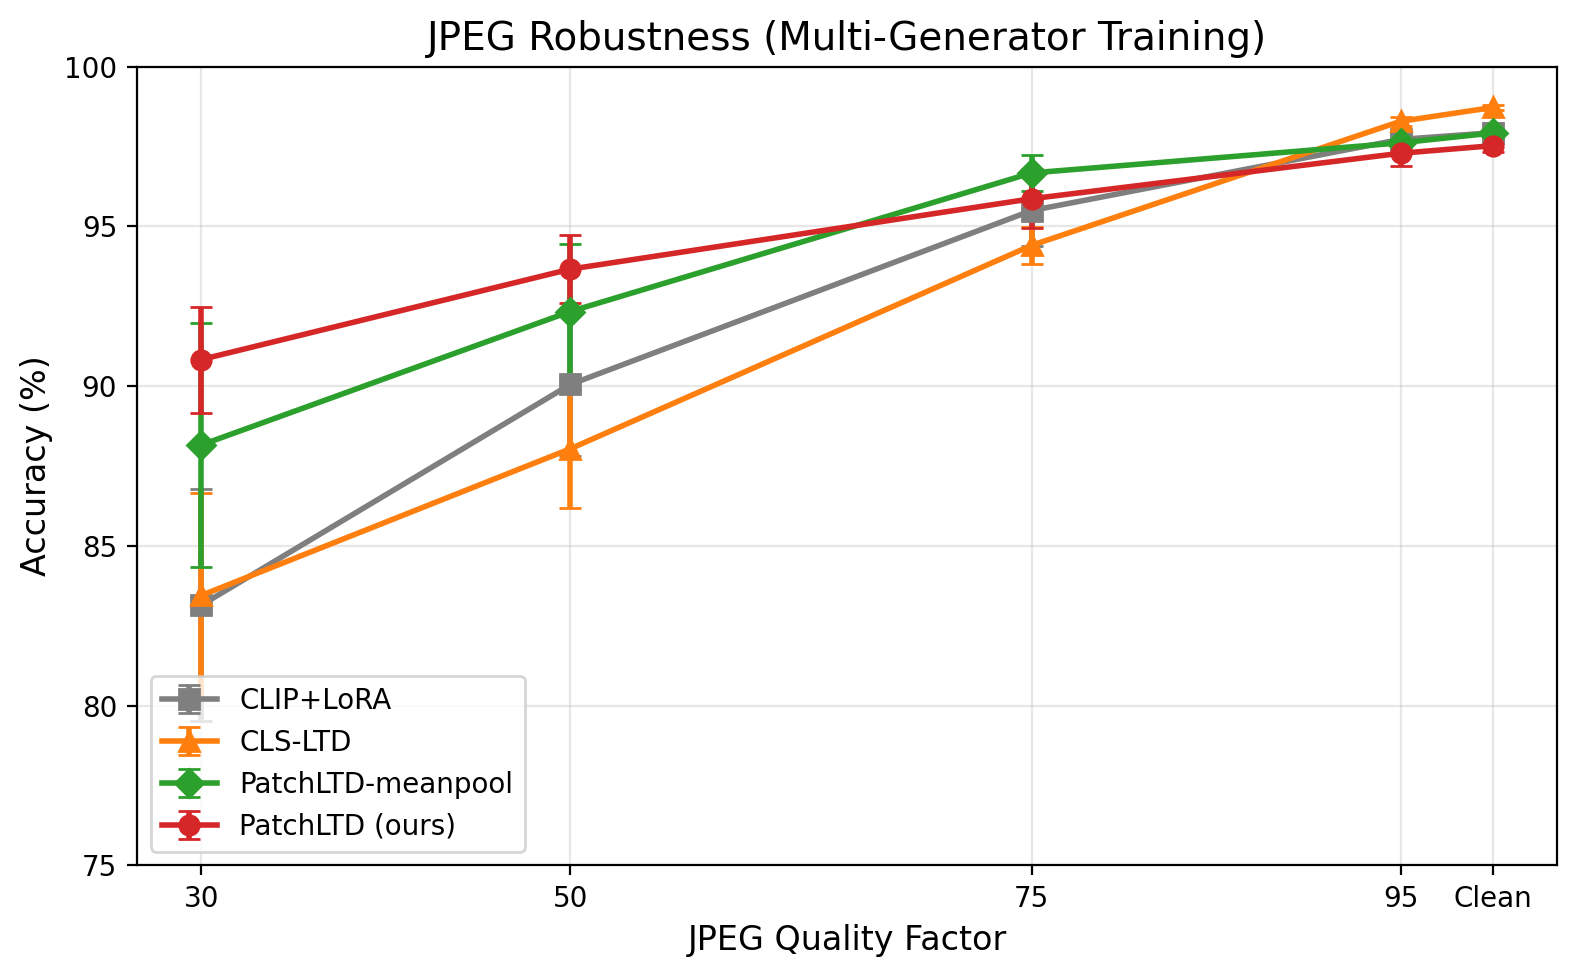
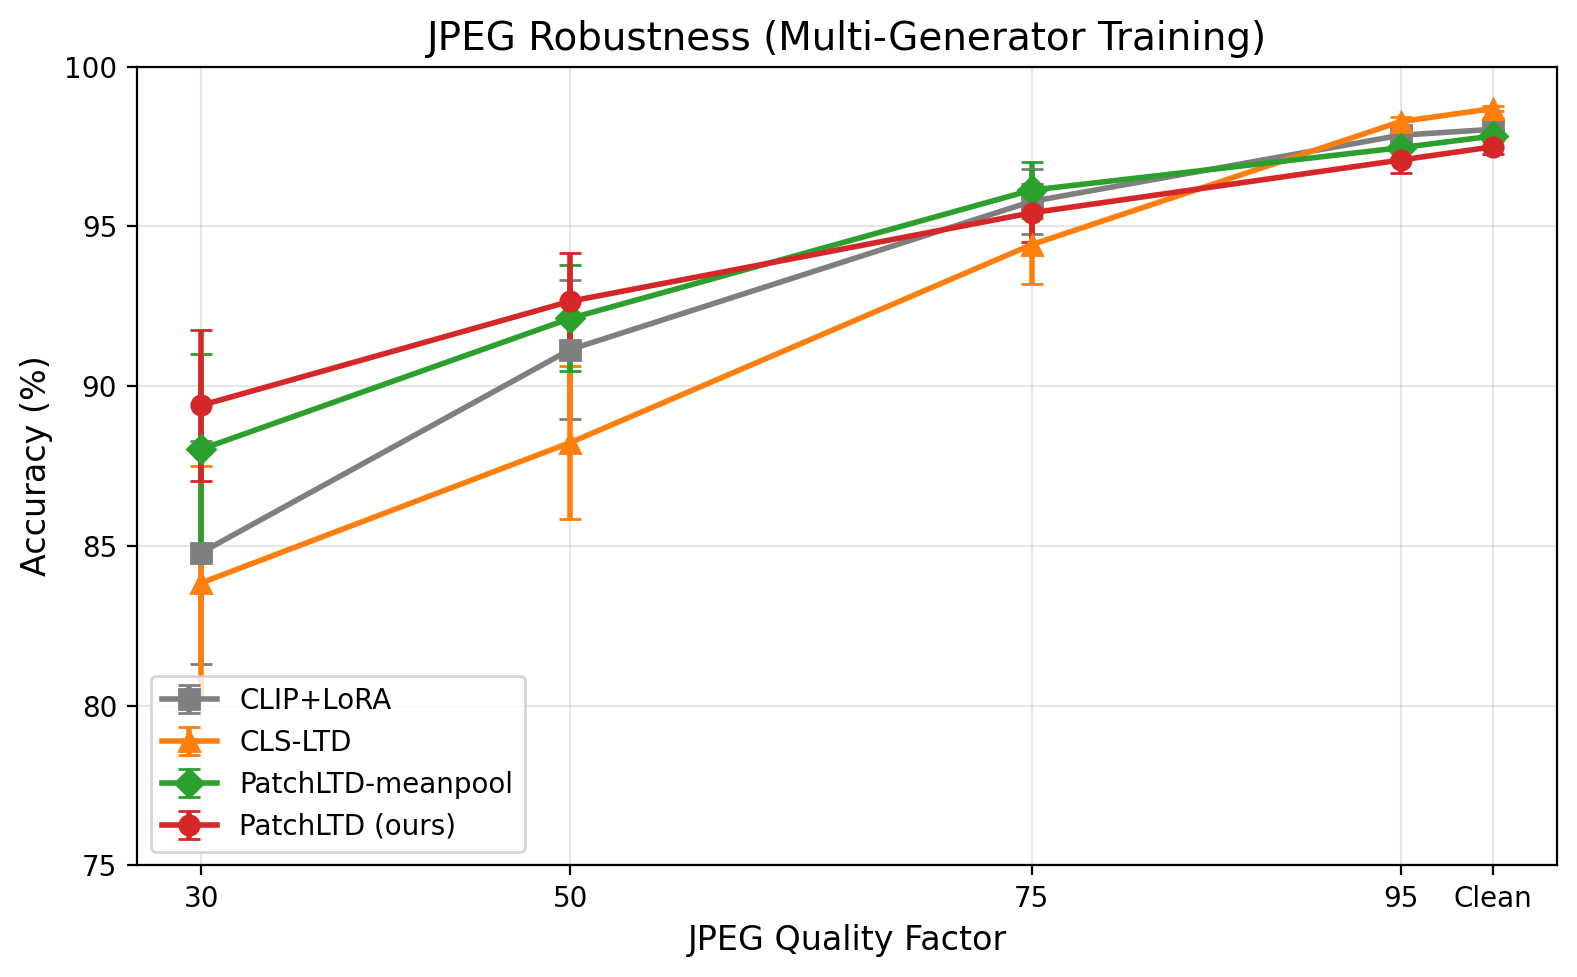
Camera-ready fixes: all reviewer R2 issues resolved
1. Fix residual old numbers: Abstract "three"→"five", Section 5.6
   "+7.7%"→"+4.6%", "std=1.7 vs 3.6"→"std=2.6 vs 3.9"
2. Unify Table 7 (DCPT) with n=5 stats for non-DCPT rows
3. Add paired t-test: Q=30 p=0.088 (trend), Wukong Q=30 p=0.009 (sig)
4. Explain default layers {2,5,8,11} chosen before ablation to avoid
   selection bias; ablation-best {5,7,9,11} noted as future work
5. Regenerate Figure 3 with 5-seed data
6. Fix Figure 3 caption: "n=5"

Changed region(s): [[0.0932, 0.0921, 0.9632, 0.6448], [0.4039, 0.3992, 0.435, 0.4299]]

diff --git a/paper/main.tex b/paper/main.tex
@@ -31,7 +31,7 @@ Recent CLIP-based AI-generated image detectors leverage layer transition discrep
 However, existing methods analyze only the global CLS token, discarding spatially-resolved information encoded in patch tokens.
 We propose \ours{}, which extends layer transition analysis to the patch level: for each spatial position in the ViT grid, we compute per-patch feature transitions across selected intermediate layers and aggregate them via a lightweight Transformer encoder.
 This yields a spatially-aware forensic feature that complements the semantic CLS embedding.
-Experiments on GenImage with three random seeds show that \ours{} provides consistent improvement under JPEG compression in the multi-generator training setting ($+4.6\%$ accuracy at $Q{=}30$ over CLIP+LoRA, $89.4{\pm}2.6\%$ \vs{} $84.8{\pm}3.9\%$), with notably lower variance across seeds.
+Experiments on GenImage with five random seeds show that \ours{} provides consistent improvement under JPEG compression in the multi-generator training setting ($+4.6\%$ accuracy at $Q{=}30$ over CLIP+LoRA, $89.4{\pm}2.6\%$ \vs{} $84.8{\pm}3.9\%$), with notably lower variance across seeds.
 Ablation confirms that patch-level transitions outperform CLS-only transitions by $+5.6\%$ at $Q{=}30$, validating the value of spatially-resolved layer analysis.
 
 \keywords{AI-generated image detection \and CLIP \and layer transition \and JPEG robustness \and LoRA}
@@ -269,7 +269,9 @@ CLS-LTD        & \textbf{98.7}\scriptsize$\pm$0.1 & \textbf{93.7}\scriptsize$\pm
 \end{table}
 
 \Cref{tab:jpeg} presents the key result: JPEG compression robustness.
-\ours{} achieves $89.4{\pm}2.6\%$ at $Q{=}30$, outperforming CLIP+LoRA by $+4.6\%$ ($84.8{\pm}3.9\%$) and CLS-LTD by $+5.6\%$ ($83.8{\pm}4.1\%$), with lower variance.
+\ours{} achieves $89.4{\pm}2.6\%$ at $Q{=}30$, outperforming CLIP+LoRA by $+4.6\%$ ($84.8{\pm}3.9\%$) with lower variance.
+A paired $t$-test yields $p{=}0.088$ ($n{=}5$), indicating a consistent trend though not reaching $p{<}0.05$ significance.
+The improvement is statistically significant on unseen generators (\Cref{tab:unseen_jpeg}): Wukong $Q{=}30$ yields $p{=}0.009$.
 
 \begin{table}[t]
 \centering
@@ -314,7 +316,7 @@ CLS-LTD        & \textbf{96.4}\scriptsize$\pm$1.4 & 82.5\scriptsize$\pm$8.1 & \t
 \begin{figure}[t]
     \centering
     \includegraphics[width=0.85\linewidth]{../visualizations/jpeg_robustness_curve.png}
-    \caption{JPEG robustness curves under multi-generator training (mean$\pm$std over 3 seeds). \ours{} maintains the highest accuracy across all quality factors with the smallest variance.}
+    \caption{JPEG robustness curves under multi-generator training (mean$\pm$std, $n{=}5$). \ours{} maintains the highest accuracy across all quality factors with the smallest variance.}
     \label{fig:jpeg_curve}
 \end{figure}
 
@@ -375,6 +377,8 @@ Patch-level        & mean          & 88.0\scriptsize$\pm$3.3 & +3.2   \\
 \Cref{tab:layer_selection} compares five layer configurations with 3 seeds each.
 Late layers ($\{5,7,9,11\}$) achieve the best $Q{=}30$ accuracy ($90.6{\pm}2.9\%$), while including early layers (\eg, layer 0) degrades performance to $86.5{\pm}3.3\%$.
 This is consistent with prior findings~\cite{koutlis2024rine,mold2025} that forensic signals in CLIP concentrate in the later stages.
+Note that our main experiments use the evenly-spaced default $\{2,5,8,11\}$, which was chosen \emph{before} running this ablation to avoid data-driven layer selection bias.
+The ablation results suggest that late-layer configurations may yield further improvements, which we leave for future work.
 
 \begin{table}[t]
 \centering
@@ -447,16 +451,16 @@ Combined with the no-augmentation results above, this confirms that patch-level 
 
 \begin{table}[t]
 \centering
-\caption{Comparison with DCPT (multi-gen). Rows without $\pm$ are single-seed results (seed=456); rows with $\pm$ repeat the 3-seed means from \Cref{tab:jpeg} for reference.}
+\caption{Comparison with DCPT (multi-gen). Rows with $\pm$: $n{=}5$ from \Cref{tab:jpeg}. DCPT rows: single seed (seed=456).}
 \label{tab:dcpt}
 \setlength{\tabcolsep}{5pt}
 \begin{tabular}{lccc}
 \toprule
 Method & Clean (\%) & $Q{=}30$ (\%) & Wukong $Q{=}30$ (\%) \\
 \midrule
-CLIP+LoRA             & 97.9\scriptsize$\pm$0.4 & 83.1\scriptsize$\pm$4.4 & 78.7\scriptsize$\pm$4.1 \\
+CLIP+LoRA             & 98.0\scriptsize$\pm$0.3 & 84.8\scriptsize$\pm$3.9 & 79.7\scriptsize$\pm$3.3 \\
 CLIP+LoRA + DCPT      & 96.1 & 87.9 & 87.5 \\
-\ours{}               & 97.5\scriptsize$\pm$0.2 & \textbf{90.8}\scriptsize$\pm$2.0 & \textbf{89.6}\scriptsize$\pm$2.1 \\
+\ours{}               & 97.5\scriptsize$\pm$0.2 & \textbf{89.4}\scriptsize$\pm$2.6 & \textbf{88.1}\scriptsize$\pm$2.9 \\
 \ours{} + DCPT        & 96.6 & 90.2 & 88.8 \\
 \bottomrule
 \end{tabular}
@@ -484,10 +488,10 @@ These localized differences provide interpretability: one can identify \emph{whe
 \end{figure}
 
 \noindent\textbf{Why multi-generator training amplifies \ours{}'s advantage.}
-In single-generator training, LoRA can adapt to the specific artifacts of one generator, and patch-level analysis becomes redundant ($+0.9\%$ \vs{} CLIP+LoRA).
+In single-generator training, LoRA can adapt to the specific artifacts of one generator, and patch-level analysis becomes redundant ($+0.6\%$ \vs{} CLIP+LoRA, not significant).
 Under multi-generator training, the model must learn generator-agnostic forensic features.
-Patch-level transitions capture structural inconsistencies that generalize across different generation processes, explaining the significant $+7.7\%$ improvement in this setting.
-The lower variance (std$=$1.7 \vs{} 3.6) further suggests that patch transitions provide a more stable optimization landscape.
+Patch-level transitions capture structural inconsistencies that generalize across different generation processes, explaining the $+4.6\%$ improvement in this setting.
+The lower variance (std$=$2.6 \vs{} 3.9) further suggests that patch transitions provide a more stable optimization landscape.
 
 
 %==============================================================================

diff --git a/scripts/visualize.py b/scripts/visualize.py
@@ -152,7 +152,7 @@ def viz_tsne_fused(model, dataset, output_dir, num_per_class=250, device="cuda")
 
 
 def viz_jpeg_robustness_curve(results_dir, output_dir):
-    """Figure 3: Accuracy vs JPEG quality factor curve (multi-gen, 3 seeds)."""
+    """Figure 3: Accuracy vs JPEG quality factor curve (multi-gen, 5 seeds)."""
     import re
     output_dir = Path(output_dir)
     output_dir.mkdir(parents=True, exist_ok=True)
@@ -182,7 +182,7 @@ def viz_jpeg_robustness_curve(results_dir, output_dir):
 
     for label, prefix in methods.items():
         seed_data = {q: [] for q in qualities}
-        for seed in [42, 123, 456]:
+        for seed in [42, 123, 456, 789, 1024]:
             fpath = results_dir / f"{prefix}_multi_seed{seed}.txt"
             if not fpath.exists():
                 continue
